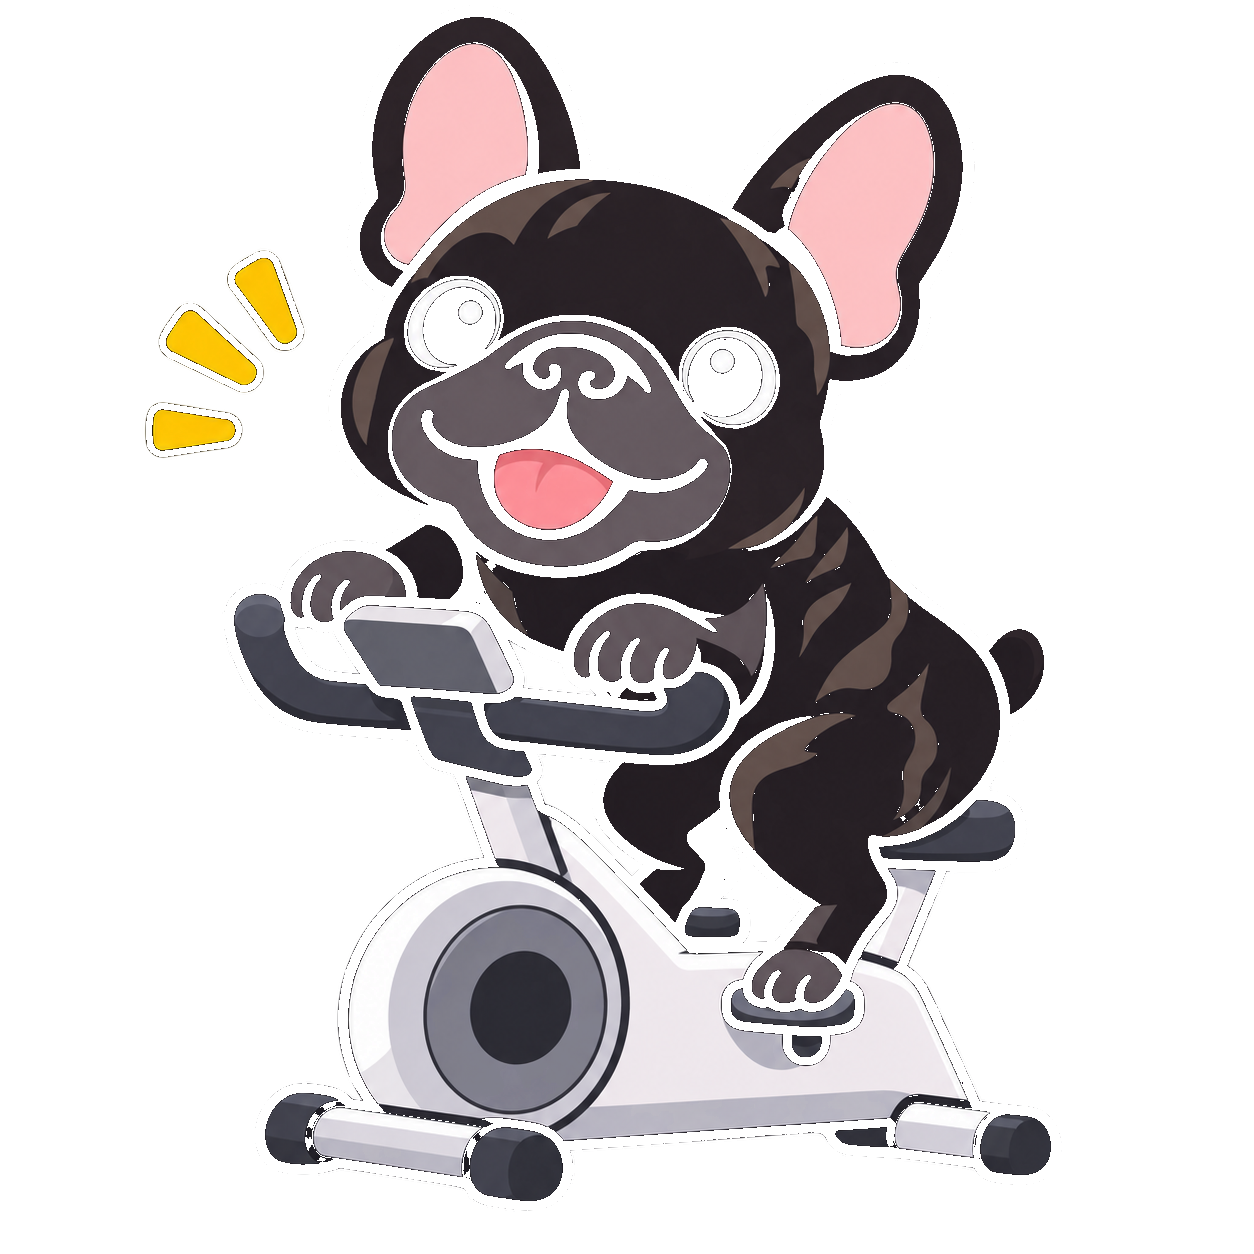
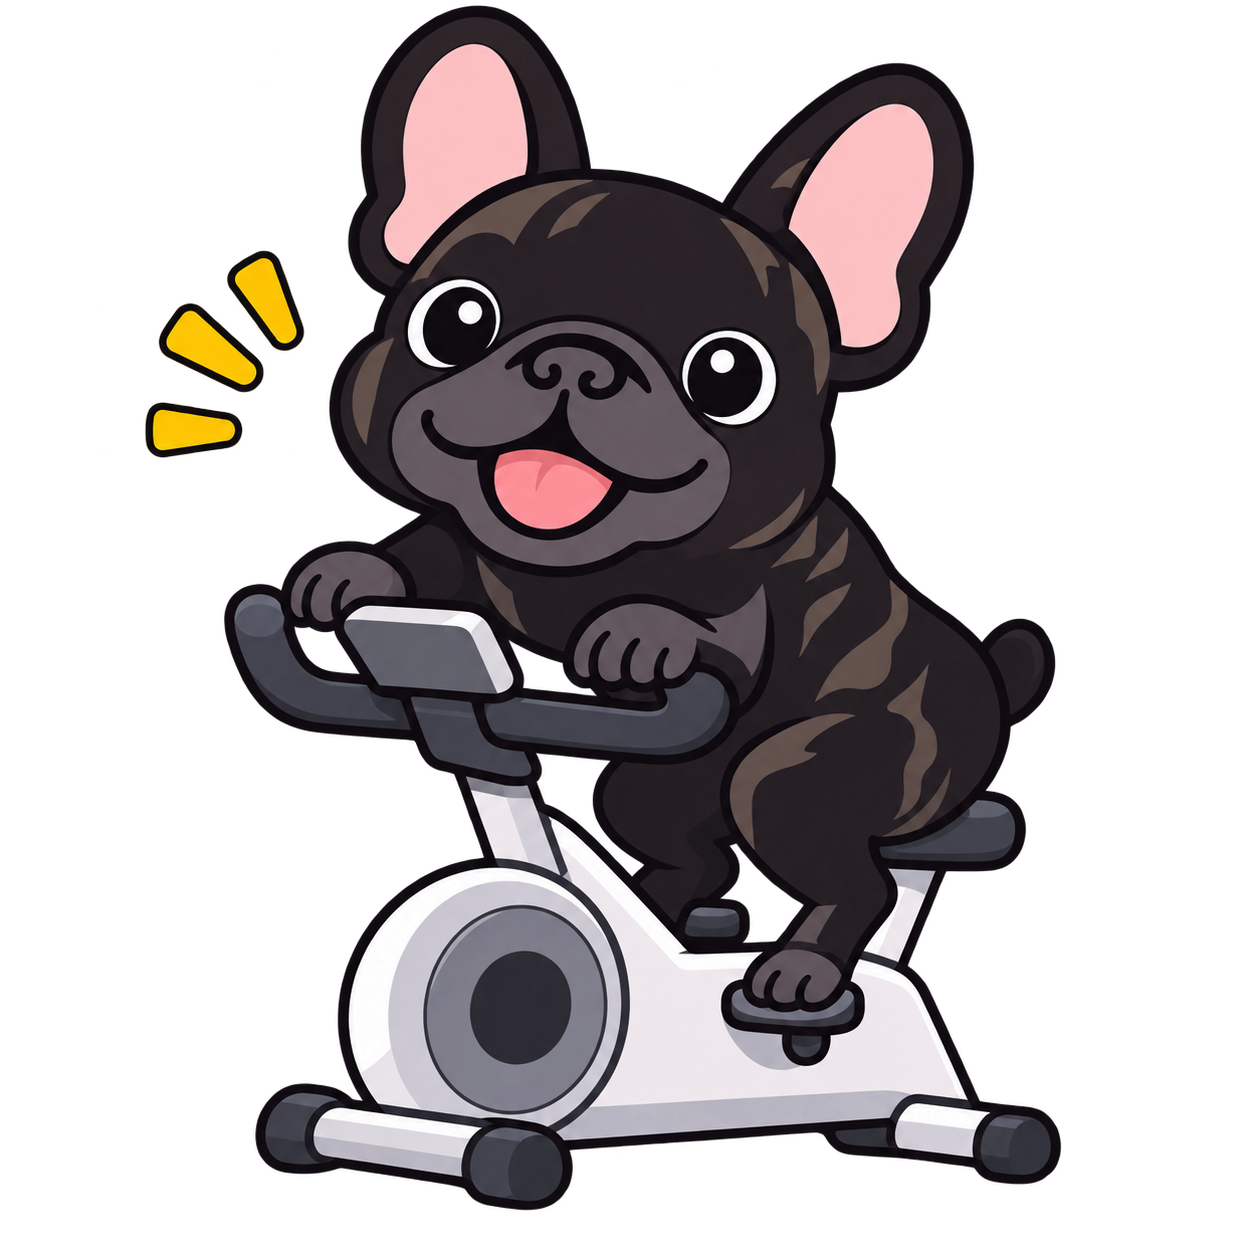
fix(top): restore advisor black outlines punched out of PNGs
Replace advisor assets with originals that keep opaque black linework,
update home/advice goldens, and precache images in panel golden tests so
light captures include the character.

diff --git a/app_packages/screen/feature/top/test/advice_speech_panel_golden_test.dart b/app_packages/screen/feature/top/test/advice_speech_panel_golden_test.dart
@@ -1,4 +1,5 @@
 import 'package:flutter/foundation.dart';
+import 'package:flutter/widgets.dart';
 import 'package:flutter_test/flutter_test.dart';
 import 'package:forui/forui.dart';
 import 'package:foundation_resources/gen/strings_test_helper.dart';
@@ -108,6 +109,18 @@ Future<void> _pumpPanelGolden(
         ),
       ),
     );
+    await tester.pumpAndSettle();
+    // アドバイザー PNG のデコード完了前に撮ると light Golden が空になる。
+    await tester.runAsync(() async {
+      final context = tester.element(find.byType(AdviceSpeechPanel));
+      await precacheImage(
+        AssetImage(
+          'assets/advisor/${tone.name}.png',
+          package: 'screen_feature_top',
+        ),
+        context,
+      );
+    });
     await tester.pumpAndSettle();
     await expectLater(
       find.byType(AdviceSpeechPanel),
